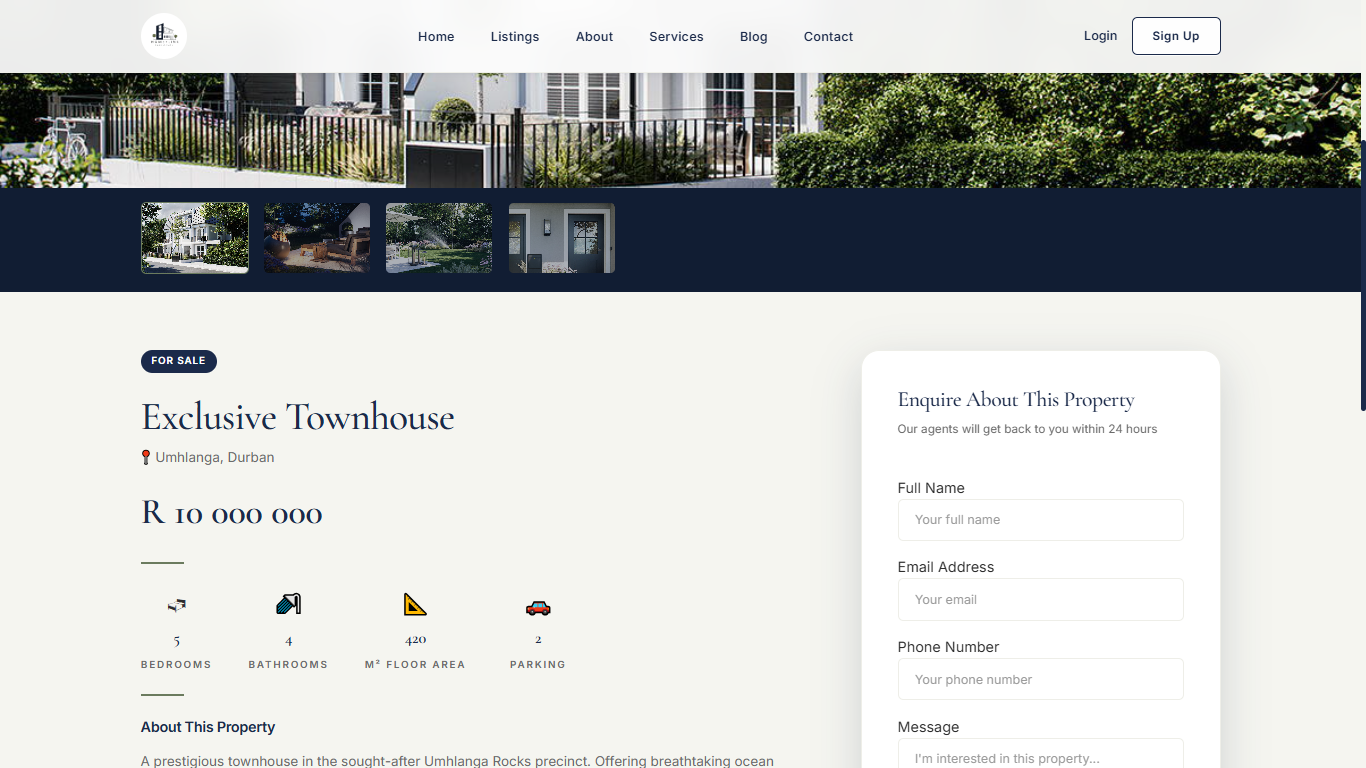
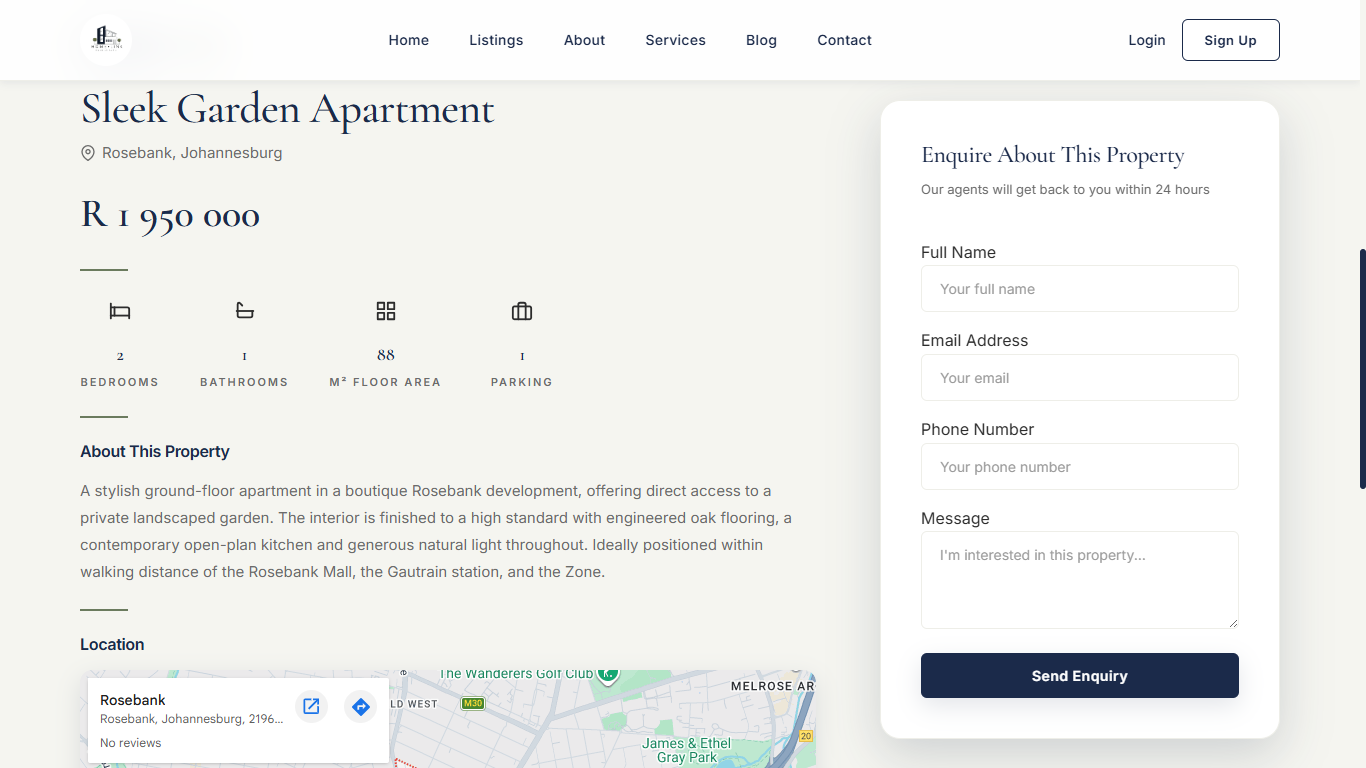
Changed the README screenshots

diff --git a/README.md b/README.md
@@ -91,6 +91,8 @@ HomeLink/
 ### Dashboard
 ![Dashboard](images/screenshots/dashboard.png)
 
+### Gallery
+![Gallery](images/screenshots/gallery.png)
 ---
 
 ## 🗺 Pages
